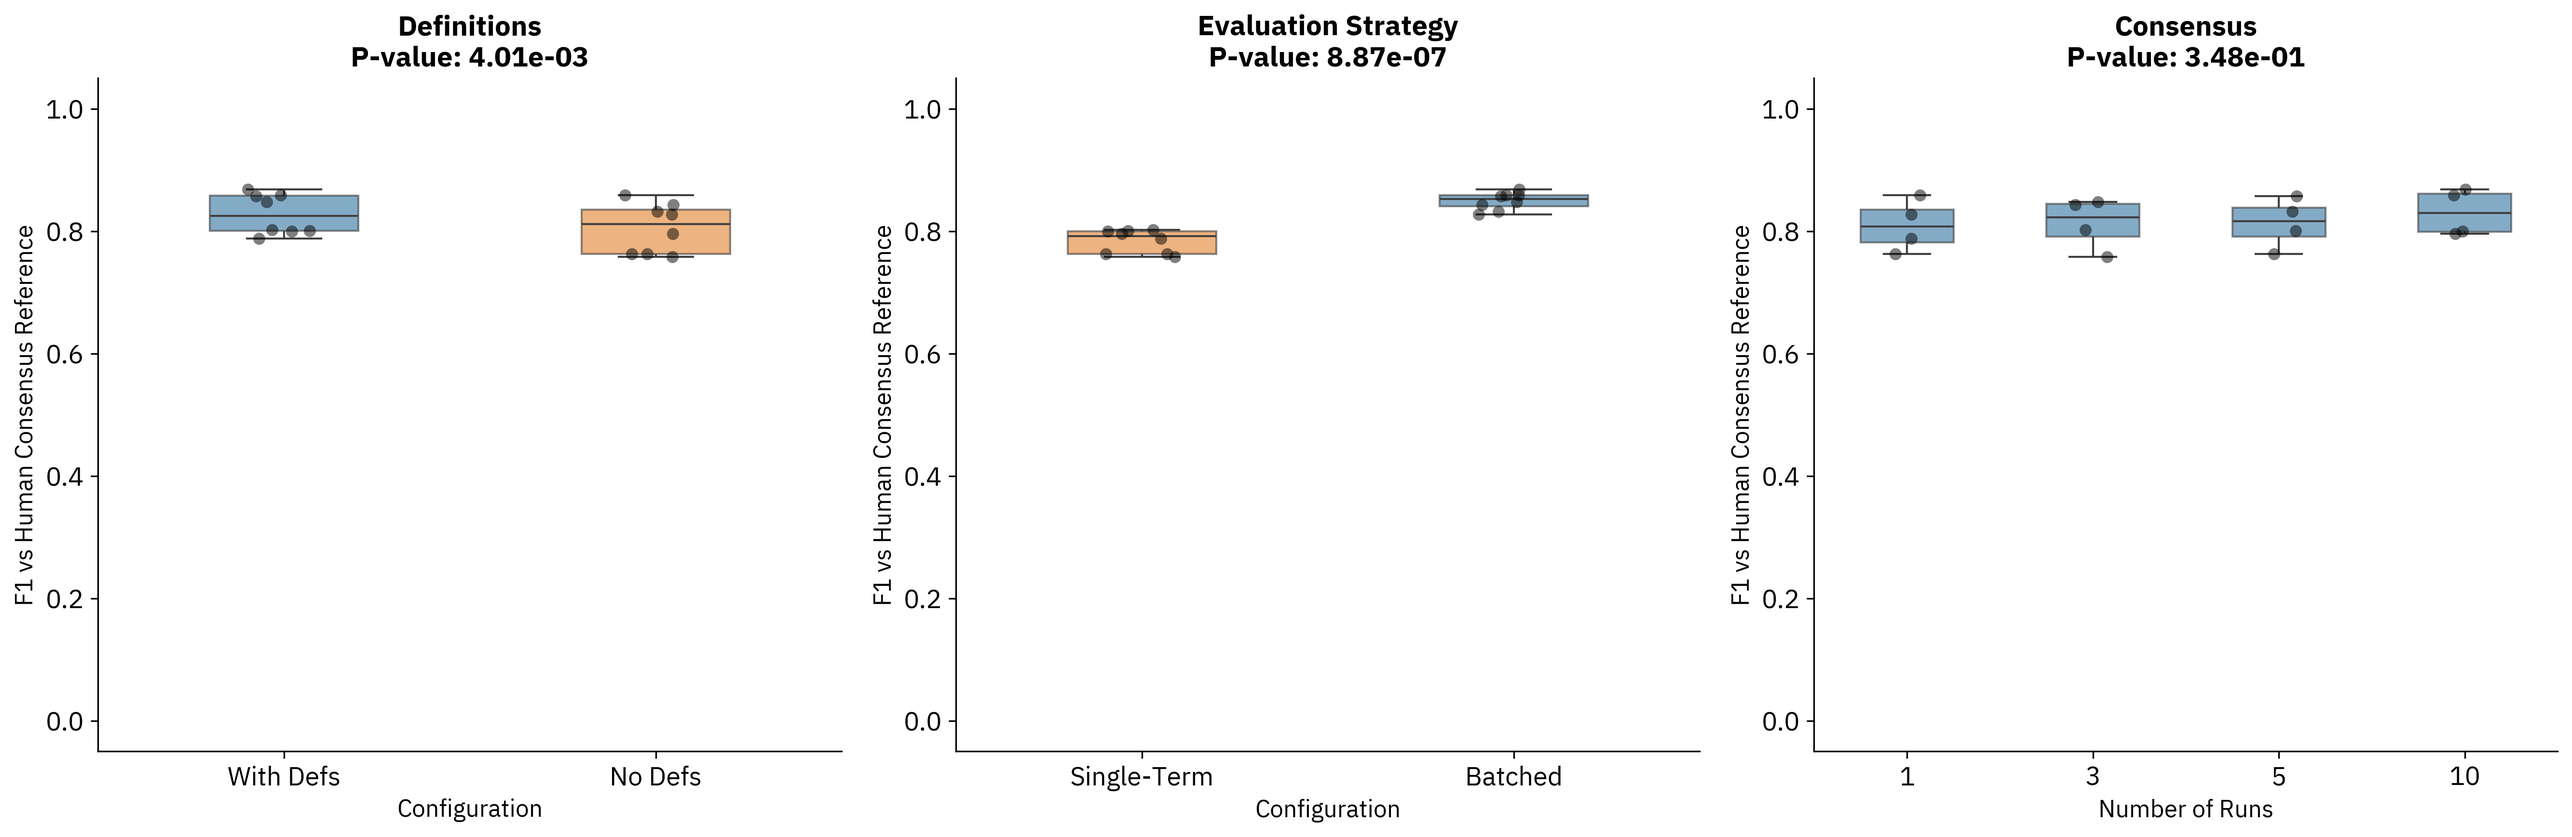
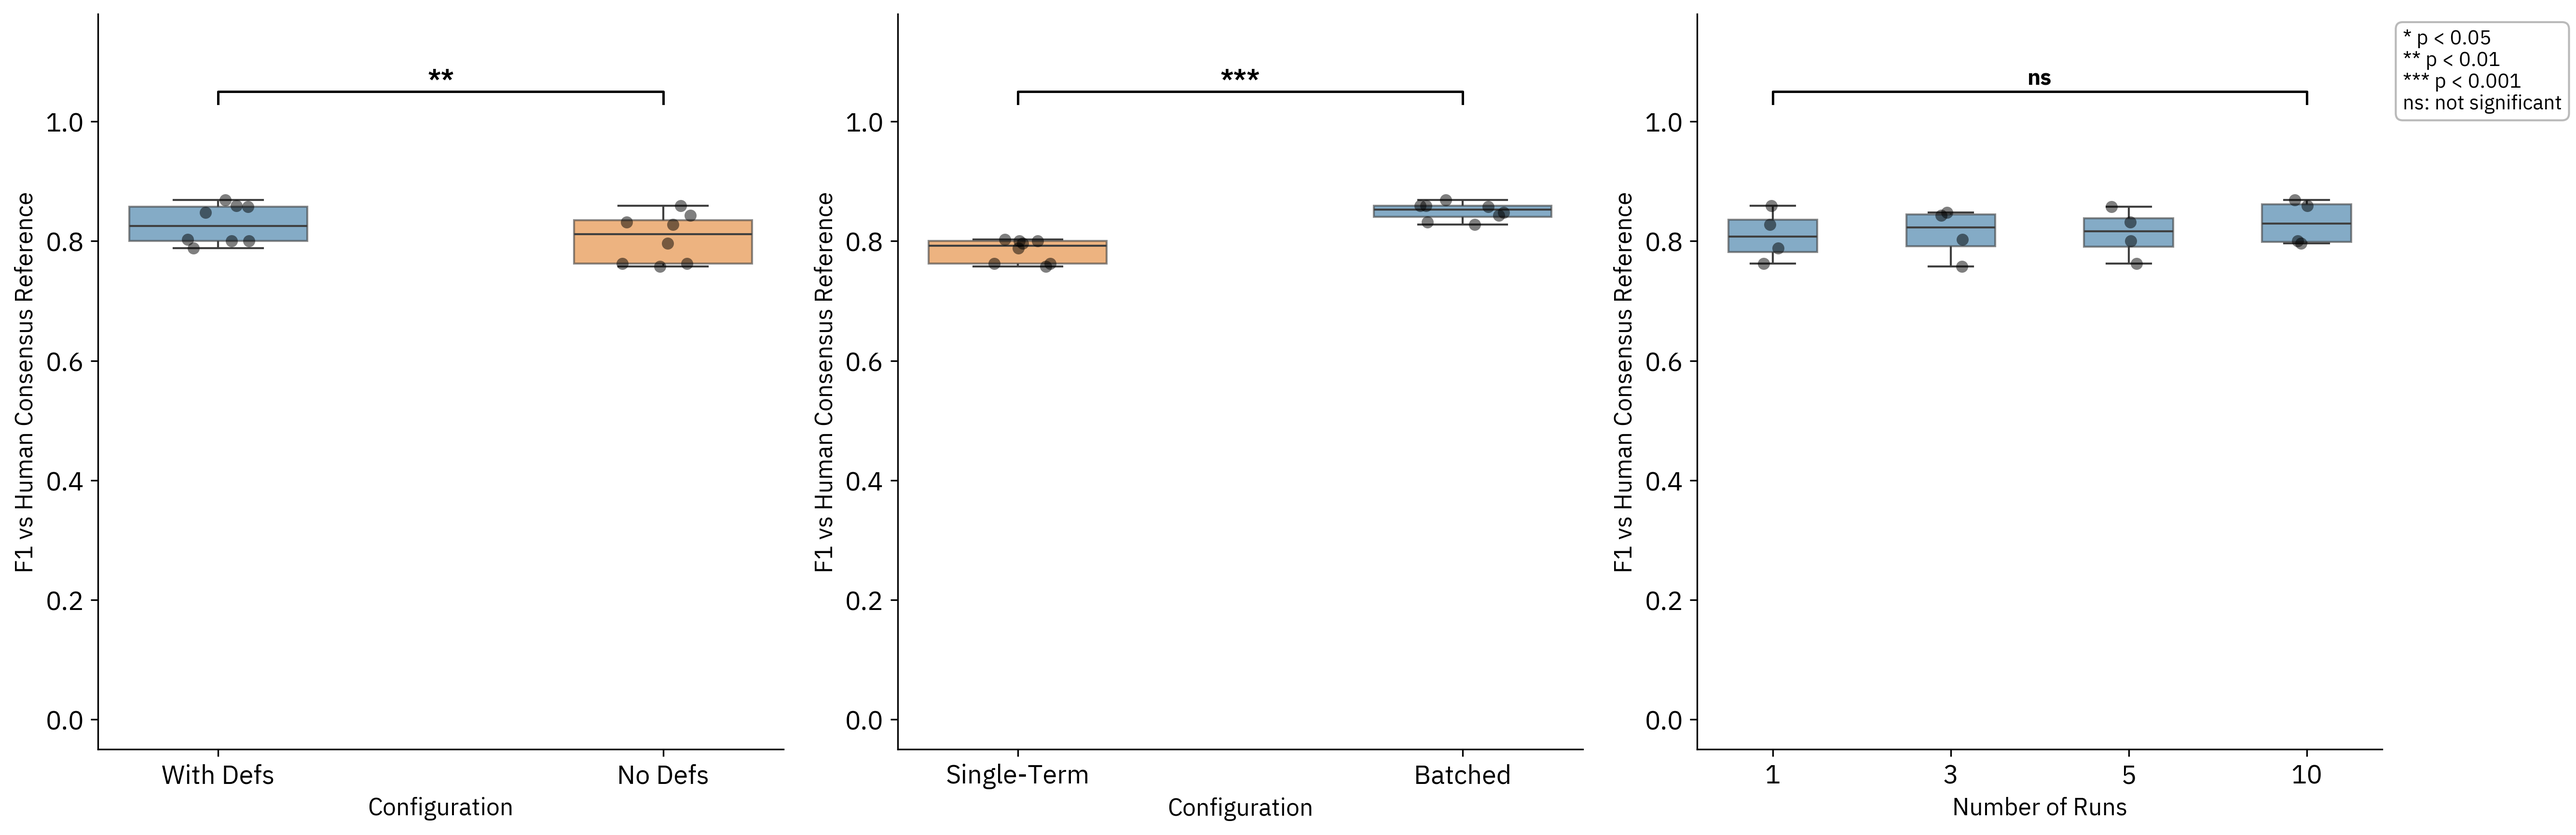
update ewald lab repo

diff --git a/03.evaluation/modules/02.eval_llms/scripts/05.eval_combined.py b/03.evaluation/modules/02.eval_llms/scripts/05.eval_combined.py
@@ -2123,6 +2123,10 @@ def main() -> None:
                 fig, axes = plt.subplots(1, 3, figsize=(18, 6))
                 y_label = "F1 vs Human Consensus Reference"
 
+                def draw_decision_bracket(ax, x1, x2, y, h, p_val):
+                    ax.plot([x1, x1, x2, x2], [y, y+h, y+h, y], lw=1.2, color='black')
+                    ax.text((x1+x2)/2, y+h+0.005, get_asterisks(p_val), ha='center', va='bottom', color='black', fontsize=11, fontweight='bold')
+
                 # 1. Definitions Impact Analysis
                 try:
                     pivot_defs = df.pivot(
@@ -2159,13 +2163,13 @@ def main() -> None:
                         size=6,
                         jitter=0.1
                     )
-                    title = f"Definitions"
                     if pd.notna(p_val):
-                        title += f"\nP-value: {p_val:.2e}"
-                    axes[0].set_title(title, fontsize=14, fontweight="bold")
+                        draw_decision_bracket(axes[0], 0, 1, 1.03, 0.02, p_val)
+                    axes[0].set_title("")
                     axes[0].set_ylabel(y_label, fontsize=12)
                     axes[0].set_xlabel("Configuration", fontsize=12)
-                    axes[0].set_ylim(-0.05, 1.05)
+                    axes[0].set_ylim(-0.05, 1.18)
+                    axes[0].set_yticks([0.0, 0.2, 0.4, 0.6, 0.8, 1.0])
                     axes[0].grid(False)
                 except Exception as e:
                     print(f"Error generating definitions plot in {target_dir}: {e}")
@@ -2206,13 +2210,13 @@ def main() -> None:
                         size=6,
                         jitter=0.1
                     )
-                    title = f"Evaluation Strategy"
                     if pd.notna(p_val):
-                        title += f"\nP-value: {p_val:.2e}"
-                    axes[1].set_title(title, fontsize=14, fontweight="bold")
+                        draw_decision_bracket(axes[1], 0, 1, 1.03, 0.02, p_val)
+                    axes[1].set_title("")
                     axes[1].set_ylabel(y_label, fontsize=12)
                     axes[1].set_xlabel("Configuration", fontsize=12)
-                    axes[1].set_ylim(-0.05, 1.05)
+                    axes[1].set_ylim(-0.05, 1.18)
+                    axes[1].set_yticks([0.0, 0.2, 0.4, 0.6, 0.8, 1.0])
                     axes[1].grid(False)
                 except Exception as e:
                     print(f"Error generating mode plot in {target_dir}: {e}")
@@ -2257,14 +2261,26 @@ def main() -> None:
                         size=6,
                         jitter=0.1
                     )
-                    title = f"Consensus"
                     if pd.notna(p_val):
-                        title += f"\nP-value: {p_val:.2e}"
-                    axes[2].set_title(title, fontsize=14, fontweight="bold")
+                        draw_decision_bracket(axes[2], 0, len(consensus_values)-1, 1.03, 0.02, p_val)
+
+                    axes[2].set_title("")
                     axes[2].set_ylabel(y_label, fontsize=12)
                     axes[2].set_xlabel("Number of Runs", fontsize=12)
-                    axes[2].set_ylim(-0.05, 1.05)
+                    axes[2].set_ylim(-0.05, 1.18)
+                    axes[2].set_yticks([0.0, 0.2, 0.4, 0.6, 0.8, 1.0])
                     axes[2].grid(False)
+
+                    # Significance legend box placed cleanly outside to the right, including ns
+                    axes[2].text(
+                        1.03, 0.98,
+                        "* p < 0.05\n** p < 0.01\n*** p < 0.001\nns: not significant",
+                        transform=axes[2].transAxes,
+                        fontsize=10,
+                        va="top",
+                        ha="left",
+                        bbox=dict(boxstyle="round,pad=0.35", facecolor="white", edgecolor="0.7", alpha=0.9),
+                    )
                 except Exception as e:
                     print(f"Error generating consensus plot in {target_dir}: {e}")
 
